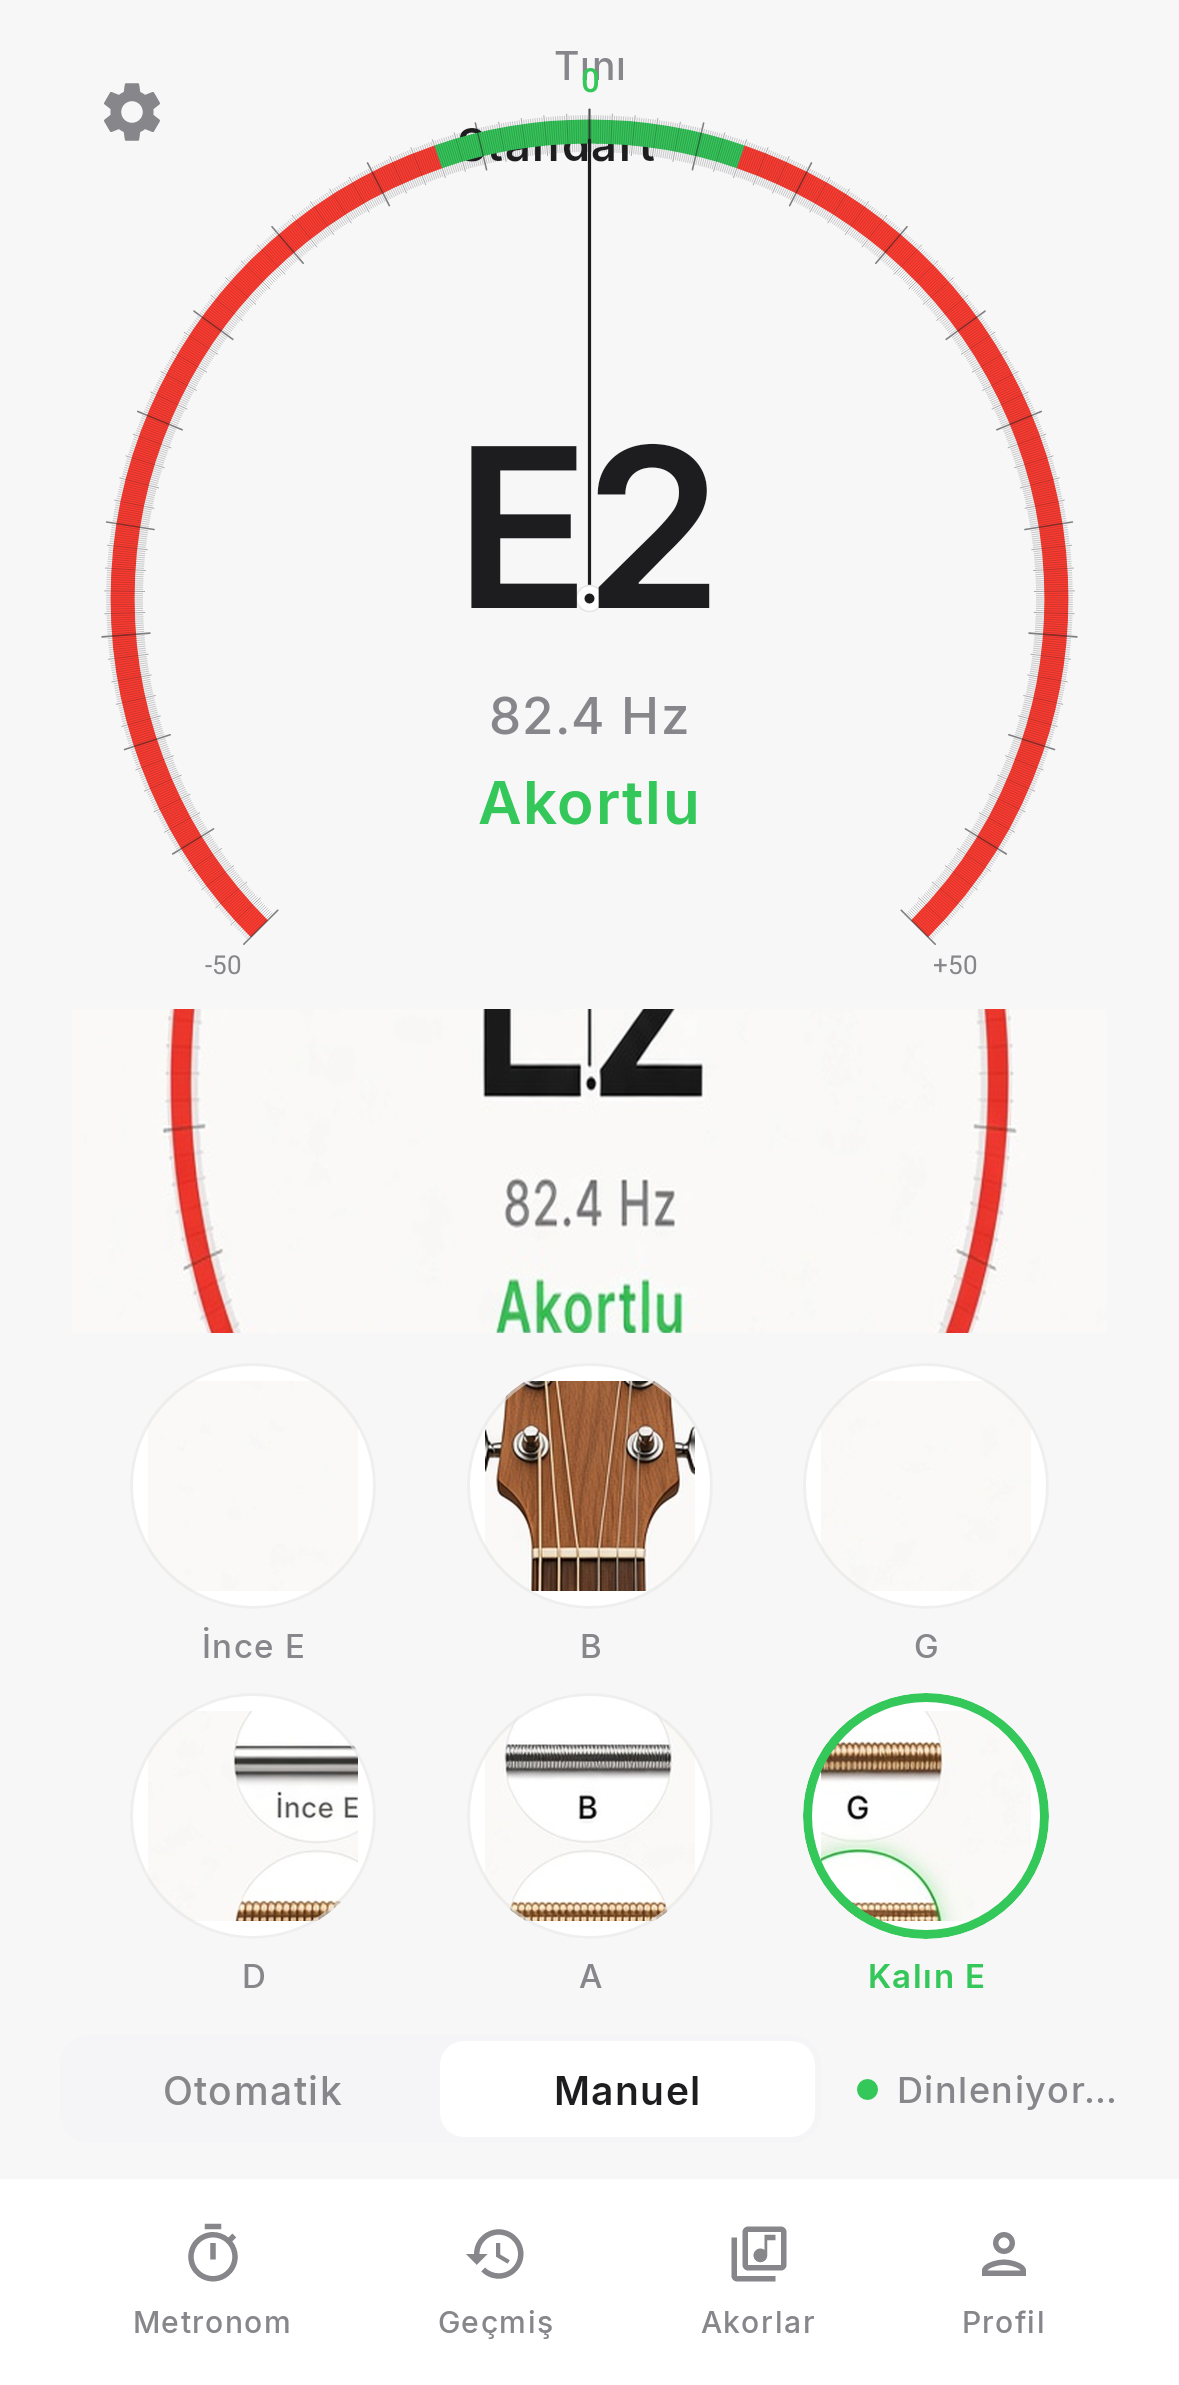
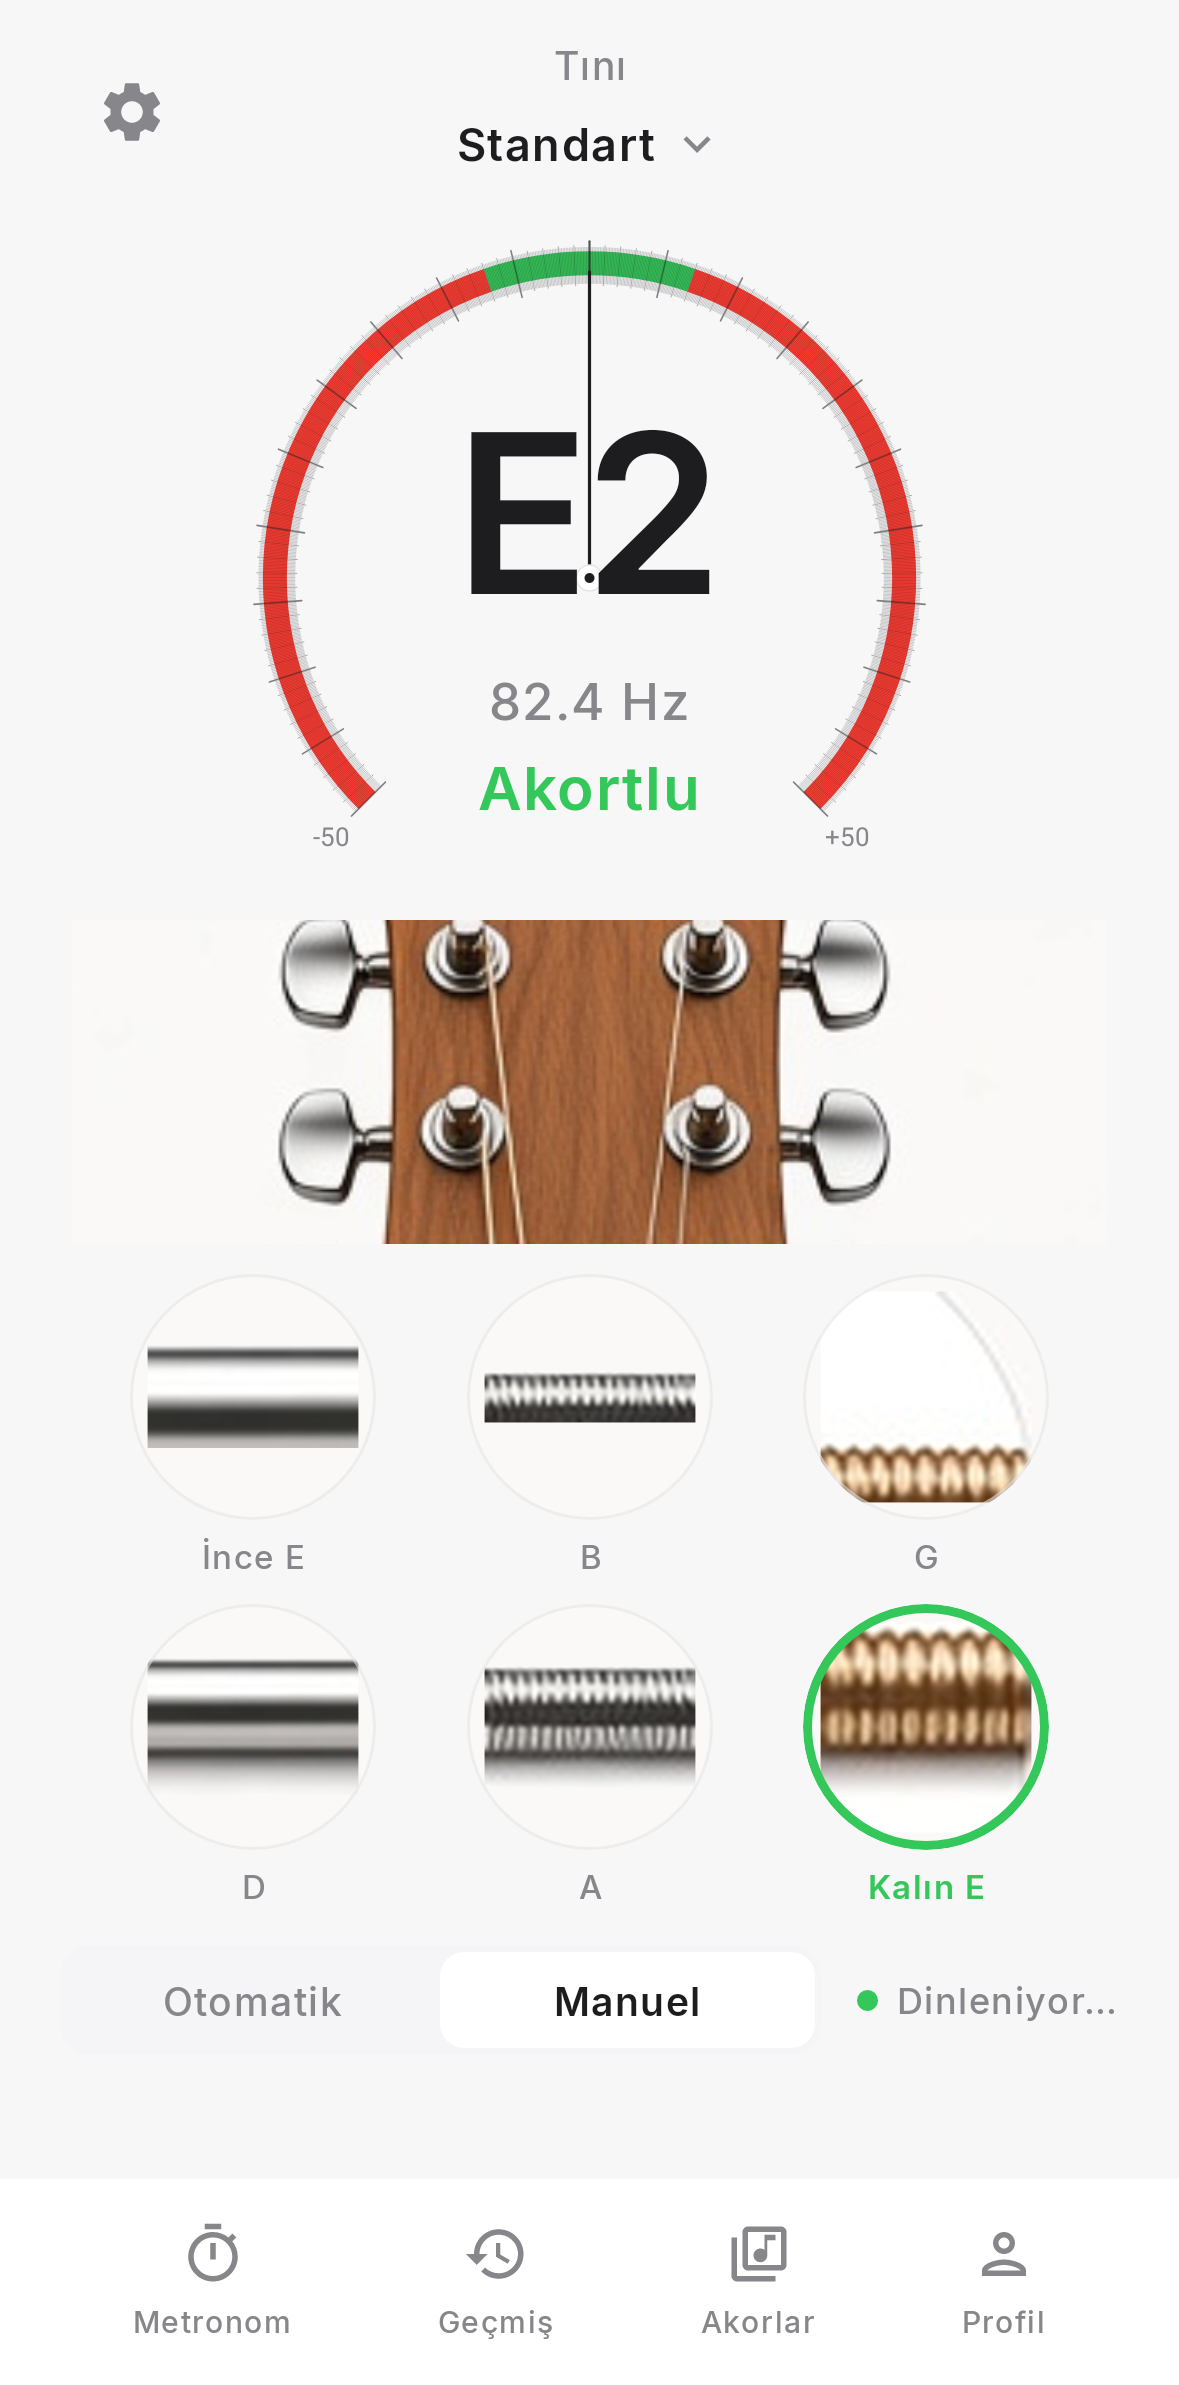
Fix v3.6.1 tuner layout and mockup D assets
Recrop headstock and string close-ups from the approved mockup with explicit PIL boxes, center string photos for the picker, and constrain the analog dial to a fixed height with clipping so the header and readout no longer collide or duplicate. Bump version to 3.6.1 and refresh Roborazzi screenshots.

diff --git a/app/src/test/java/com/tini/tuner/TunerScreenshotTest.kt b/app/src/test/java/com/tini/tuner/TunerScreenshotTest.kt
@@ -64,7 +64,7 @@ class TunerScreenshotTest {
         }
         
         composeTestRule.waitForIdle()
-        composeTestRule.onRoot().captureRoboImage()
+        composeTestRule.onRoot().captureRoboImage("docs/screenshots/idle.png")
     }
 
     @Ignore("Screenshot test - run locally only")
@@ -100,7 +100,7 @@ class TunerScreenshotTest {
         }
         
         composeTestRule.waitForIdle()
-        composeTestRule.onRoot().captureRoboImage()
+        composeTestRule.onRoot().captureRoboImage("docs/screenshots/in_tune.png")
     }
 
     @Ignore("Screenshot test - run locally only")
@@ -136,7 +136,7 @@ class TunerScreenshotTest {
         }
         
         composeTestRule.waitForIdle()
-        composeTestRule.onRoot().captureRoboImage()
+        composeTestRule.onRoot().captureRoboImage("docs/screenshots/too_low.png")
     }
 
     @Ignore("Screenshot test - run locally only")
@@ -172,7 +172,7 @@ class TunerScreenshotTest {
         }
         
         composeTestRule.waitForIdle()
-        composeTestRule.onRoot().captureRoboImage()
+        composeTestRule.onRoot().captureRoboImage("docs/screenshots/too_high.png")
     }
 
     @Ignore("Screenshot test - run locally only")
@@ -208,7 +208,7 @@ class TunerScreenshotTest {
         }
         
         composeTestRule.waitForIdle()
-        composeTestRule.onRoot().captureRoboImage()
+        composeTestRule.onRoot().captureRoboImage("docs/screenshots/tuner_strings.png")
     }
 
     @Ignore("Screenshot test - run locally only")

diff --git a/app/src/main/java/com/tini/tuner/TunerUiComponents.kt b/app/src/main/java/com/tini/tuner/TunerUiComponents.kt
@@ -24,6 +24,7 @@ import androidx.compose.runtime.*
 import androidx.compose.ui.Alignment
 import androidx.compose.ui.Modifier
 import androidx.compose.ui.draw.clip
+import androidx.compose.ui.draw.clipToBounds
 import androidx.compose.ui.draw.scale
 import androidx.compose.ui.geometry.Offset
 import androidx.compose.ui.geometry.Size
@@ -82,7 +83,8 @@ fun CircularAnalogDial(
     Box(
         modifier = modifier
             .fillMaxWidth()
-            .aspectRatio(1.02f),
+            .height(228.dp)
+            .clipToBounds(),
         contentAlignment = Alignment.Center
     ) {
         Canvas(modifier = Modifier.fillMaxSize()) {
@@ -181,7 +183,9 @@ fun CircularAnalogDial(
 
         Column(
             horizontalAlignment = Alignment.CenterHorizontally,
-            modifier = Modifier.padding(top = 4.dp)
+            modifier = Modifier
+                .align(Alignment.Center)
+                .padding(top = 8.dp)
         ) {
             if (tuningState != null) {
                 Text(
@@ -407,9 +411,7 @@ private fun StringSampleCircle(
             Image(
                 painter = painterResource(cell.imageRes),
                 contentDescription = cell.label,
-                modifier = Modifier
-                    .fillMaxSize()
-                    .padding(6.dp),
+                modifier = Modifier.fillMaxSize(),
                 contentScale = ContentScale.Crop
             )
         }

diff --git a/app/src/main/java/com/tini/tuner/TunerScreen.kt b/app/src/main/java/com/tini/tuner/TunerScreen.kt
@@ -95,18 +95,14 @@ fun TunerScreen(
                 onSettingsClick = { showSettingsSheet = true }
             )
 
-            Box(
-                modifier = Modifier
-                    .fillMaxWidth()
-                    .weight(0.38f),
-                contentAlignment = Alignment.Center
-            ) {
-                PremiumTunerDisplay(
-                    tuningState = uiState.tuningState,
-                    note = uiState.tuningState?.note,
-                    frequency = uiState.detectedFrequency
-                )
-            }
+            Spacer(modifier = Modifier.height(16.dp))
+
+            PremiumTunerDisplay(
+                tuningState = uiState.tuningState,
+                note = uiState.tuningState?.note,
+                frequency = uiState.detectedFrequency,
+                modifier = Modifier.fillMaxWidth()
+            )
 
             if (uiState.polyphonicMode && uiState.multiStringMatches.isNotEmpty()) {
                 Text(
@@ -286,13 +282,14 @@ fun MinimalTopBar(
 fun PremiumTunerDisplay(
     tuningState: TuningState?,
     note: String?,
-    frequency: Float?
+    frequency: Float?,
+    modifier: Modifier = Modifier
 ) {
     CircularAnalogDial(
         note = note,
         frequency = frequency,
         tuningState = tuningState,
-        modifier = Modifier.padding(horizontal = 4.dp)
+        modifier = modifier.padding(horizontal = 4.dp)
     )
 }
 
